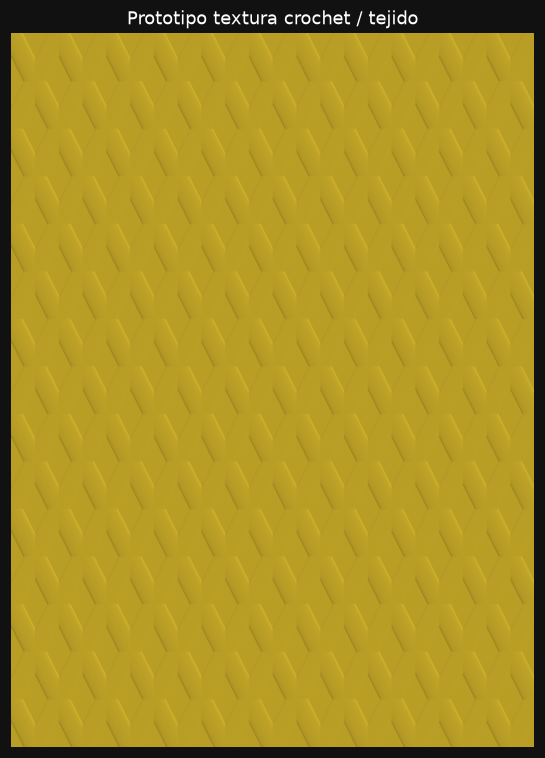
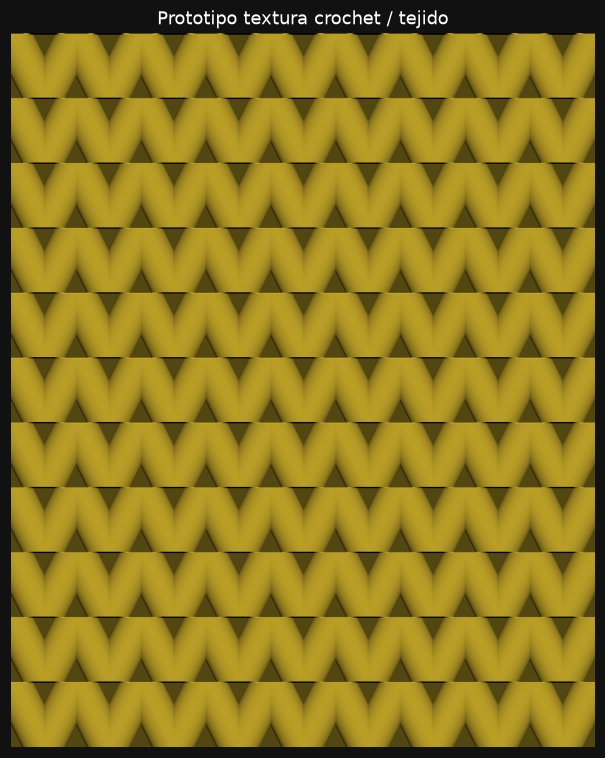
Bloki: textura lana stockinette (V's gordas en columnas) afinada
Claude-Session: https://claude.ai/code/session_015xvvEpMji5xaRximGx3vYm

diff --git a/cubo3d/knit_proto.py b/cubo3d/knit_proto.py
@@ -7,36 +7,36 @@ matplotlib.use("Agg")
 import matplotlib.pyplot as plt
 
 
+W_YARN = 0.33      # grosor del hilo (gordo = lana)
+
+
 def knit_h(col, row):
-    """Altura del hilo (punto stockinette): cada celda es una 'V' de dos piernas
-    de hilo redondeado que suben hacia las esquinas superiores y encajan con la
-    fila de arriba."""
-    ri = np.floor(row)
-    col2 = col + 0.5 * ri               # desfase de medio punto por fila (ladrillo)
-    fc = (col2 % 1.0) - 0.5
+    """Punto stockinette: columnas verticales de 'V'. Hilo gordo redondeado; el
+    punto (fr=0) de cada V queda bajo la abertura de la V de arriba -> columnas
+    continuas de lana."""
+    fc = (col % 1.0) - 0.5
     fr = row % 1.0
-    spread = 0.5                        # las piernas llegan a las esquinas
-    d1 = np.abs(fc - spread * fr)       # pierna /
-    d2 = np.abs(fc + spread * fr)       # pierna \
-    d = np.minimum(d1, d2)
-    w = 0.24                            # grosor del hilo
-    yarn = np.clip(1.0 - (d / w) ** 2, 0.0, 1.0) ** 0.5   # media-cana redondeada
+    d = np.minimum(np.abs(fc - 0.5 * fr), np.abs(fc + 0.5 * fr))   # dist a las 2 piernas
+    yarn = np.clip(1.0 - (d / W_YARN) ** 2, 0.0, 1.0) ** 0.5       # tubo redondo gordo
     return yarn
 
 
-NC, NR = 11, 15                         # columnas y filas (celda mas ancha que alta)
+NC, NR = 9, 11                          # celdas chunky (lana gruesa)
 px = 900
 xs = np.linspace(0, NC, px)
 ys = np.linspace(0, NR, int(px * NR / NC))
 C, Rr = np.meshgrid(xs, ys)
 H = knit_h(C, Rr)
 
-# hillshade simple
-gy, gx = np.gradient(H)
+# hillshade con relieve marcado + oclusion en los surcos (mas legible)
+zscale = 3.5
+gy, gx = np.gradient(H * zscale)
 nz = 1.0 / np.sqrt(gx**2 + gy**2 + 1)
 nx = -gx * nz; ny = -gy * nz
-L = np.array([0.4, 0.6, 0.7]); L /= np.linalg.norm(L)
-shade = np.clip(nx * L[0] + ny * L[1] + nz * L[2], 0, 1) * 0.8 + 0.2
+L = np.array([0.35, 0.55, 0.75]); L /= np.linalg.norm(L)
+diff = np.clip(nx * L[0] + ny * L[1] + nz * L[2], 0, 1)
+ao = 0.45 + 0.55 * H                      # surcos mas oscuros
+shade = diff * ao
 yellow = np.array([0.96, 0.82, 0.20])
 img = np.clip(shade[..., None] * yellow, 0, 1)
 

diff --git a/cubo3d/generar_crochet.py b/cubo3d/generar_crochet.py
@@ -23,18 +23,16 @@ def tex_crochet(X, Y, Z):
     """Punto stockinette: columnas alrededor (theta) x filas (Y), cada celda una
     'V' de hilo redondeado; filas desfasadas medio punto (entrelazado)."""
     theta = np.arctan2(Z, X).astype(f32)
-    Ncols = 44
+    Ncols = 44                                   # puntos alrededor
     col = theta / (2 * np.pi) * Ncols
-    rowH = 2.3
+    rowH = 2.3                                    # alto de fila (mm)
     row = (Y - (-H / 2)) / rowH
-    ri = np.floor(row)
-    col2 = col + 0.5 * ri                       # desfase medio punto (ladrillo)
-    fc = (col2 % 1.0) - 0.5
+    fc = (col % 1.0) - 0.5                        # columnas verticales (sin desfase)
     fr = row % 1.0
-    d = np.minimum(np.abs(fc - 0.5 * fr), np.abs(fc + 0.5 * fr))
-    w = 0.24
+    d = np.minimum(np.abs(fc - 0.5 * fr), np.abs(fc + 0.5 * fr))   # dist a las 2 piernas
+    w = 0.33                                     # hilo GORDO (lana)
     yarn = np.clip(1.0 - (d / w) ** 2, 0.0, 1.0) ** 0.5
-    amp = 0.40                                   # relieve del hilo (mm)
+    amp = 0.42                                   # relieve del hilo (mm)
     yfade = np.clip((H / 2 - Y) / R, 0.0, 1.0).astype(f32)
     return (-amp * yarn * yfade * T.pole_fade(X, Z)).astype(f32)
 
